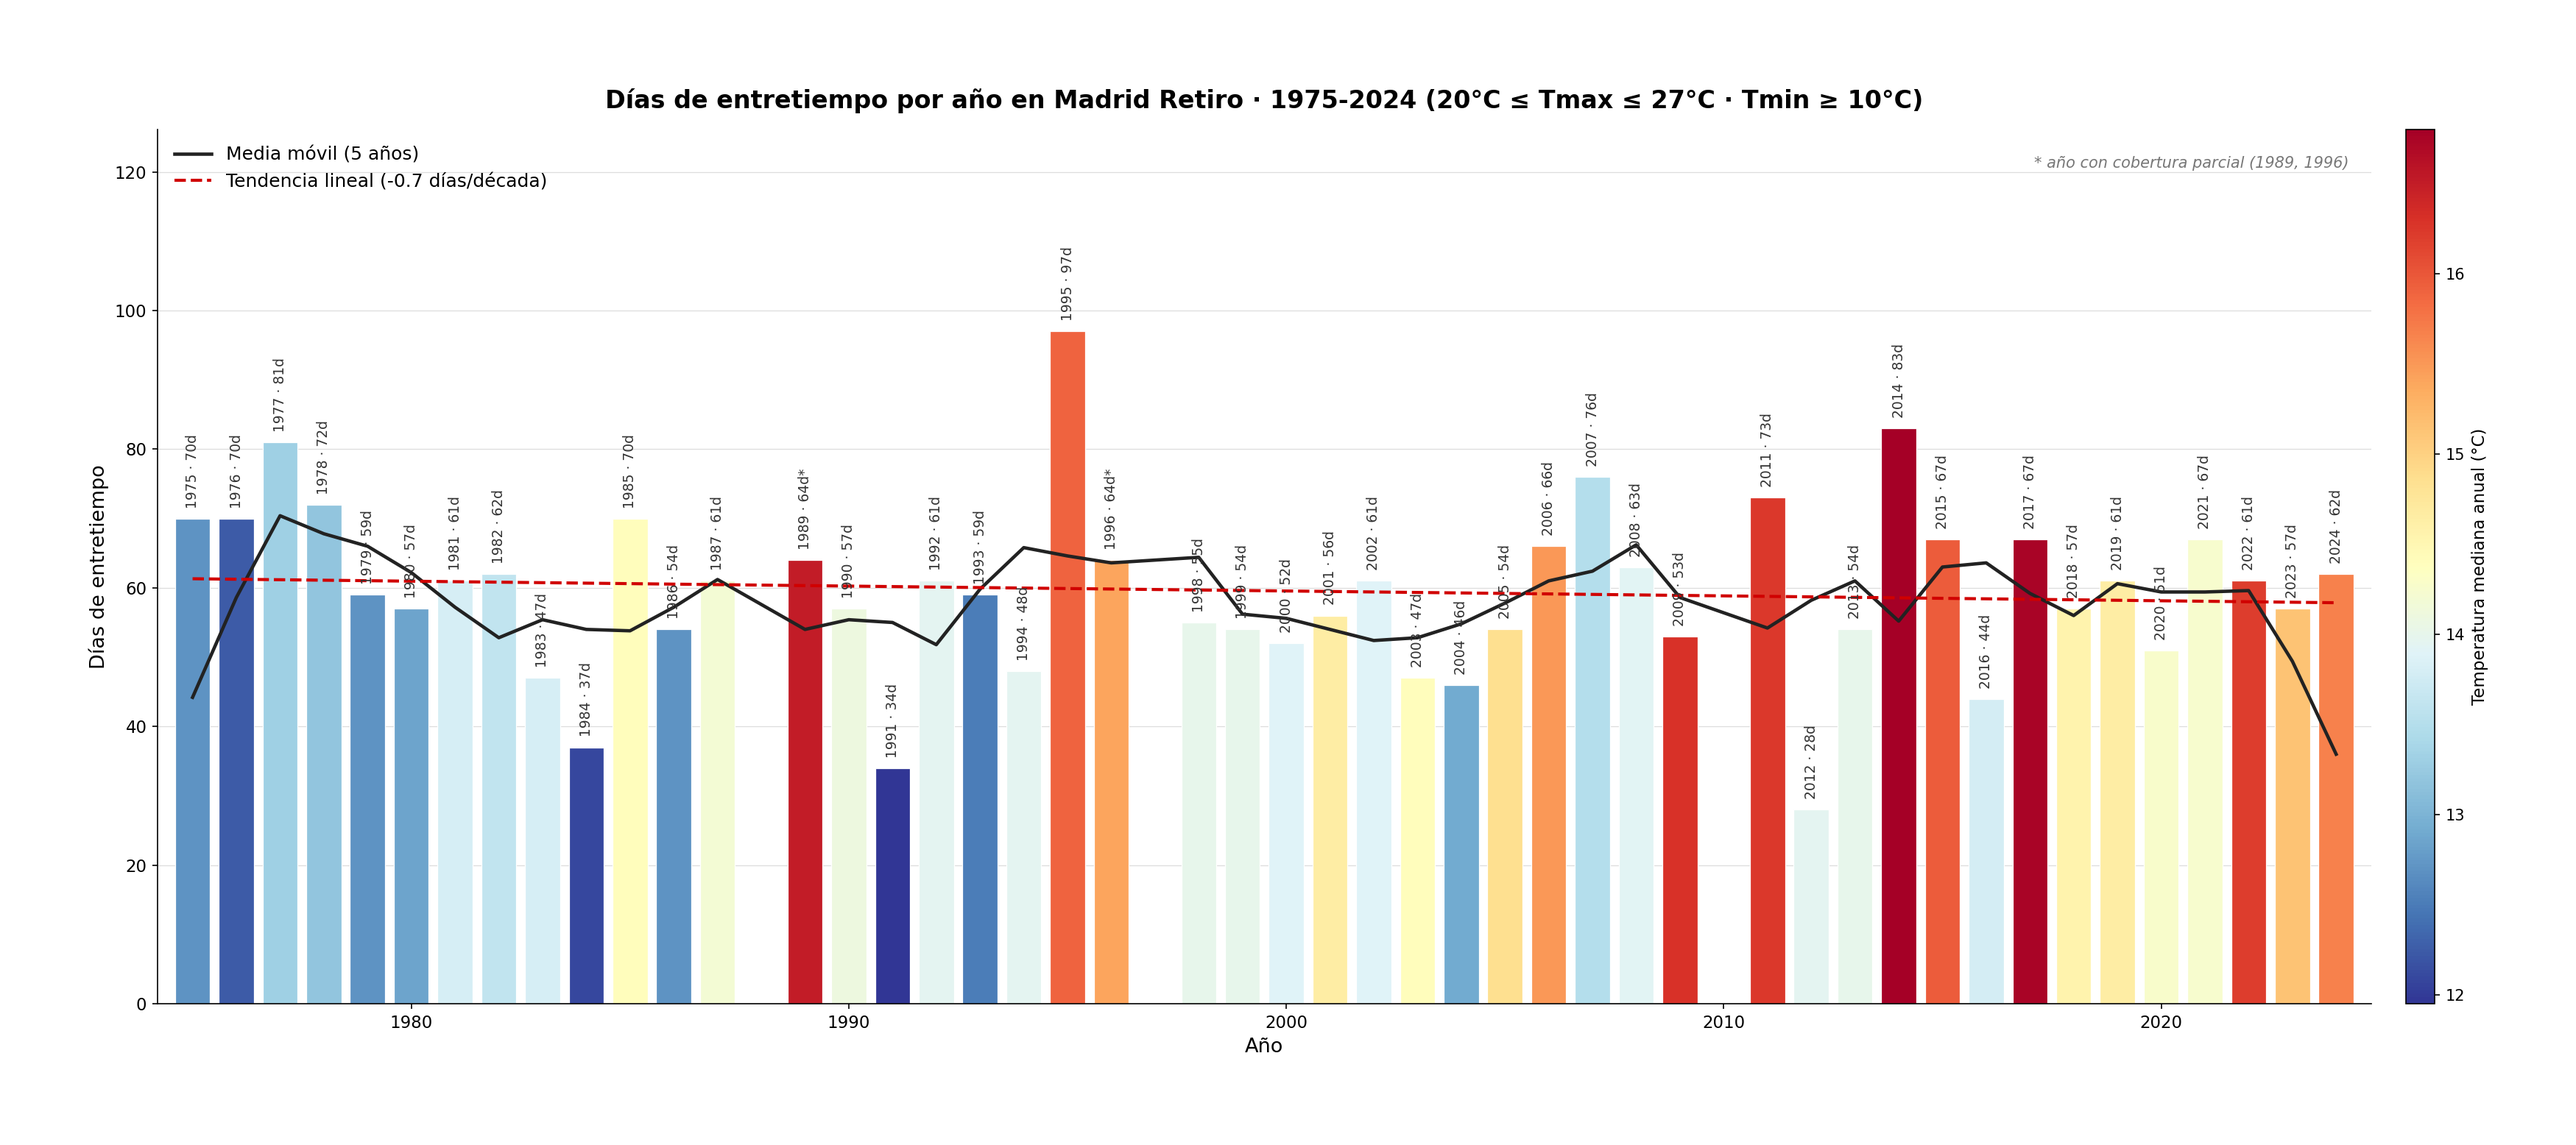
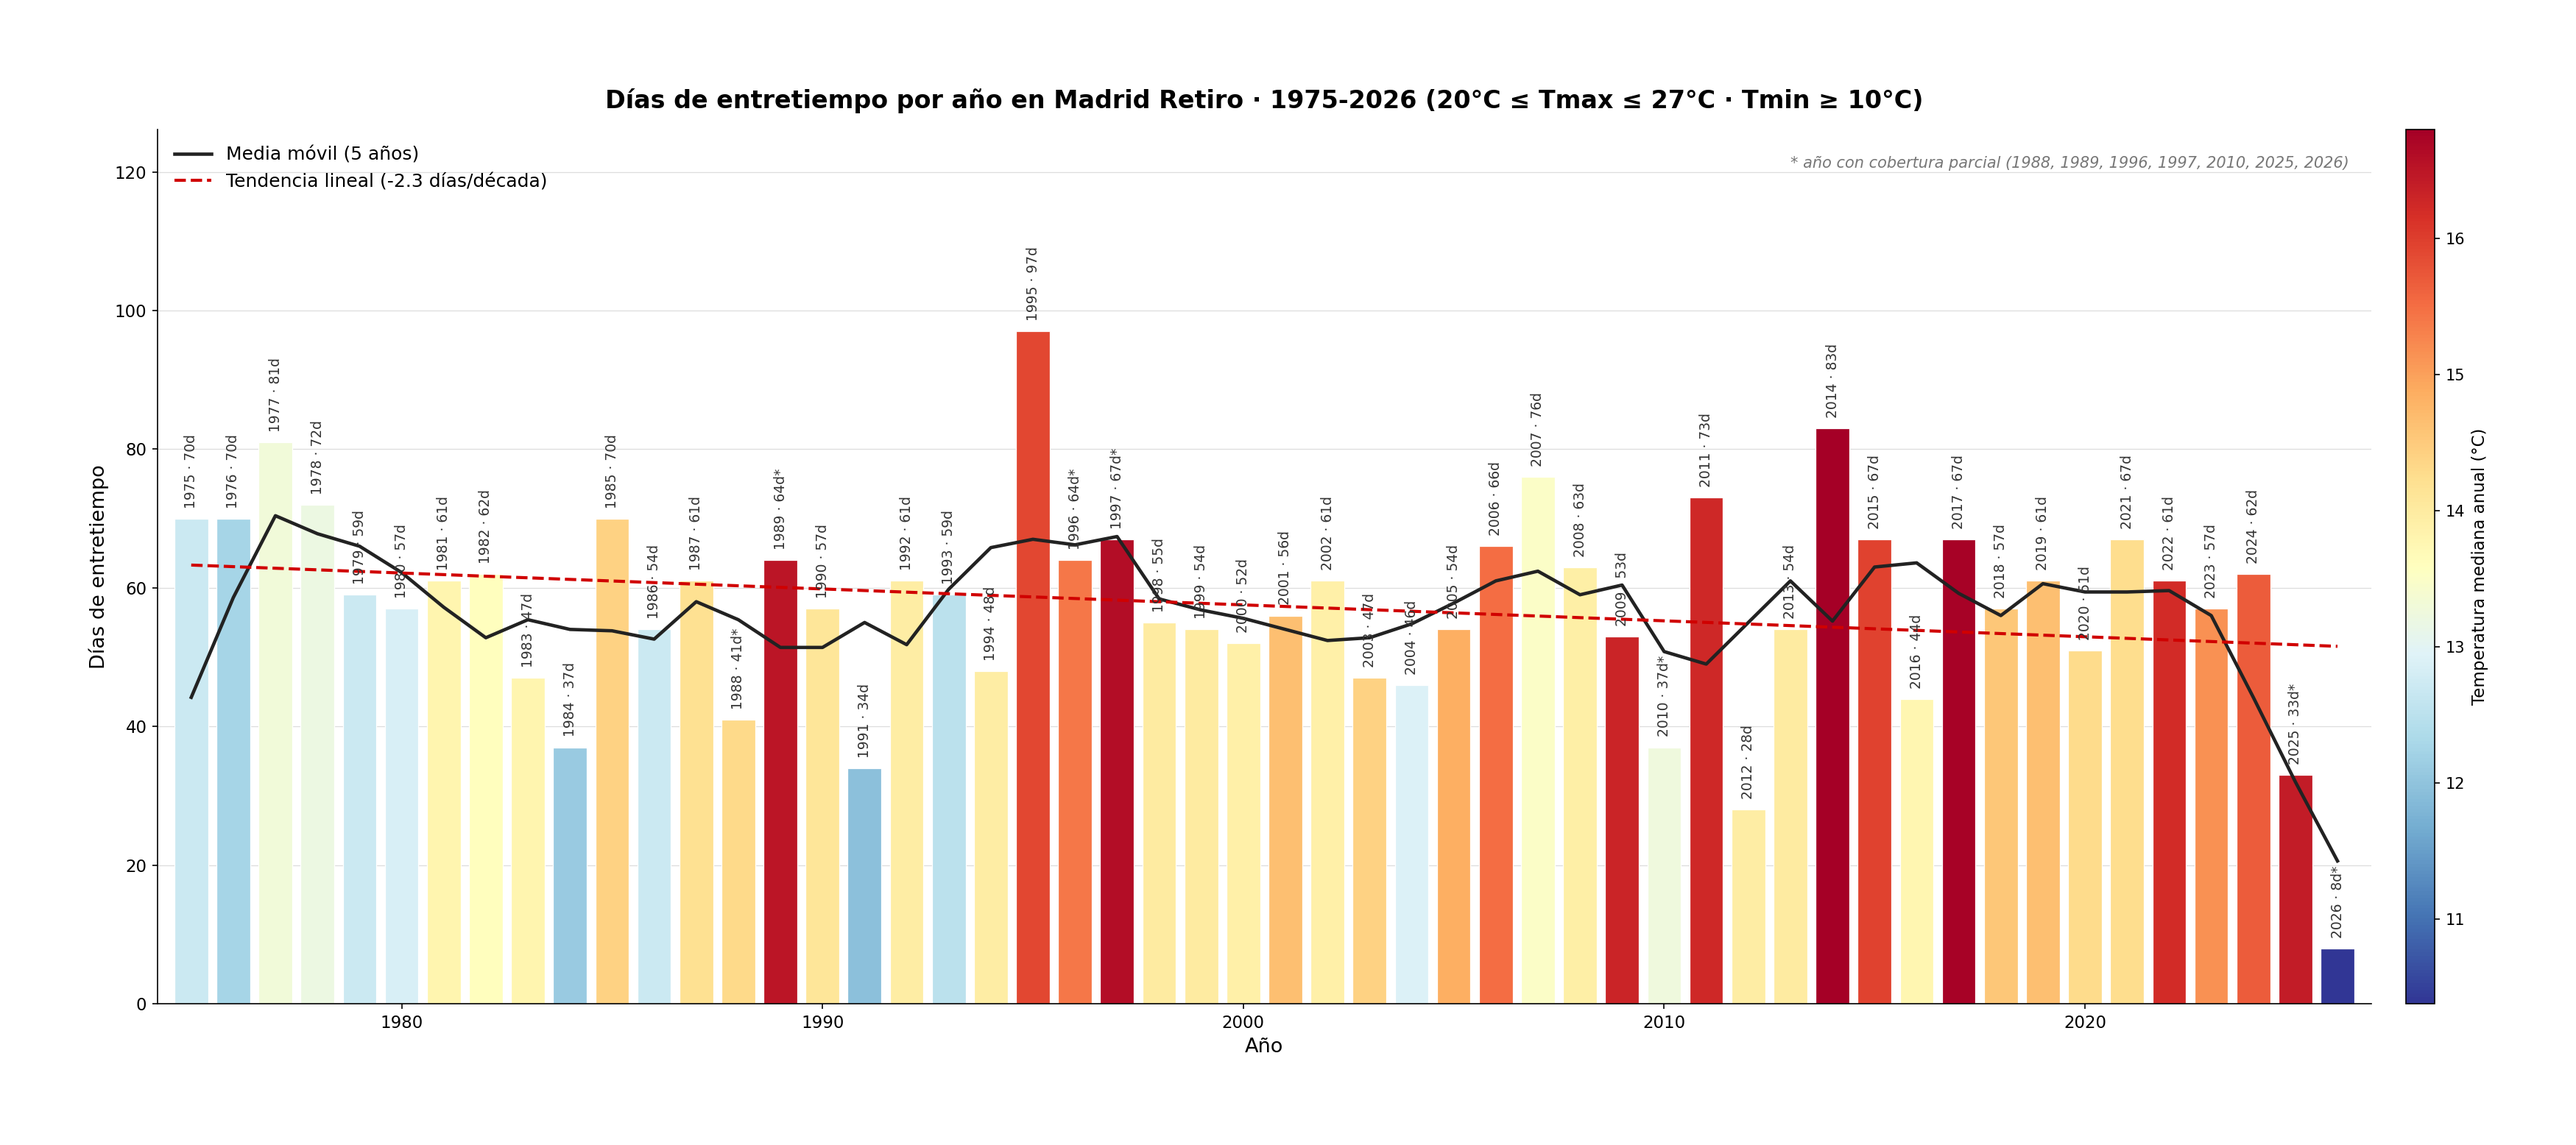
Update observation threshold in render_bars function for improved data filtering

Changed region(s): [[0.0623, 0.2776, 0.9346, 0.8946], [0.7165, 0.1234, 0.9034, 0.1542]]

diff --git a/heatmap_primaverales.py b/heatmap_primaverales.py
@@ -256,7 +256,7 @@ def render_bars(grid: np.ndarray, years: list[int], parquet: Path,
     ent_per_year = (grid == ENT_IDX).sum(axis=1)
     obs_per_year = (grid > 0).sum(axis=1)
     years_arr = np.array(years)
-    mask = (obs_per_year >= 300) & (years_arr >= start_year)
+    mask = (obs_per_year >= 50) & (years_arr >= start_year)
     years_f = years_arr[mask]
     ent_f = ent_per_year[mask]
     obs_f = obs_per_year[mask]
